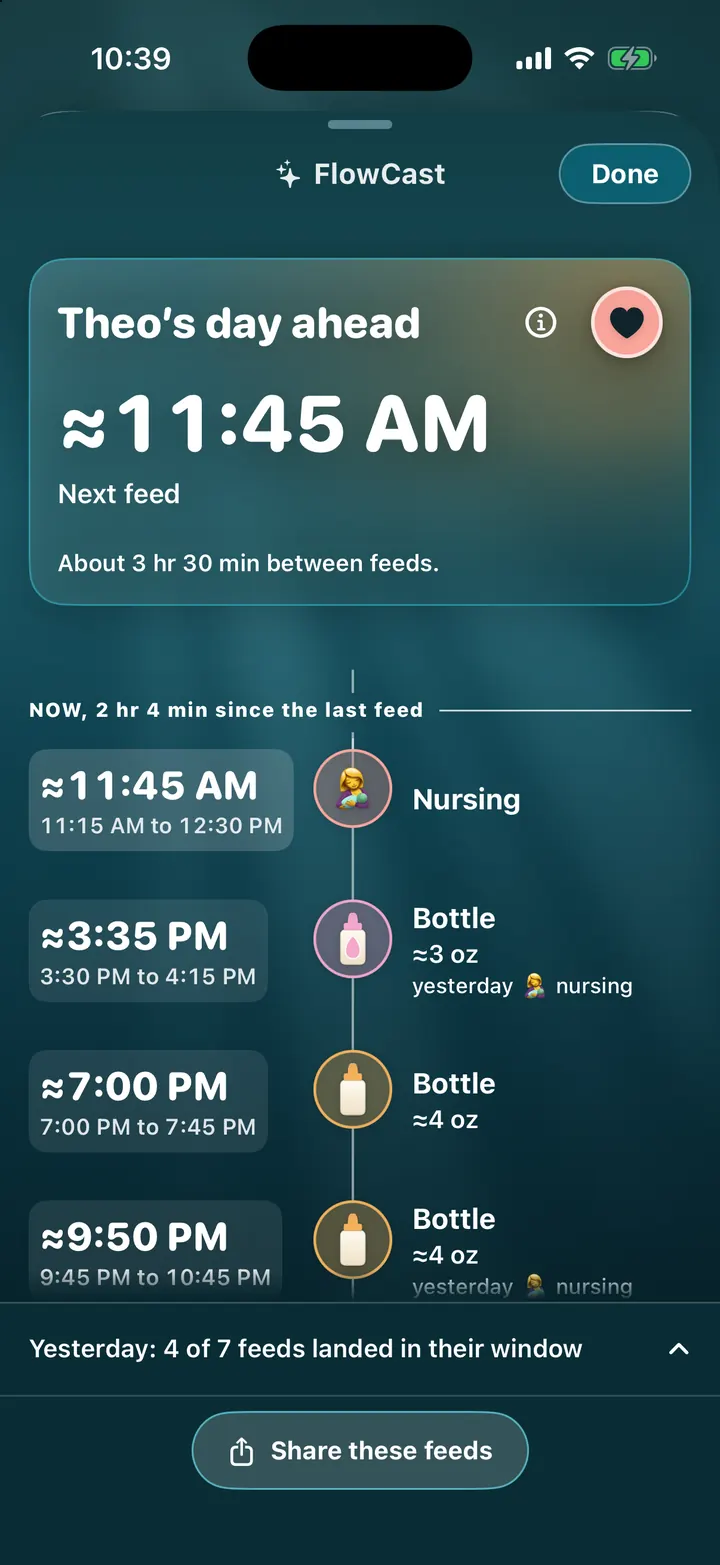
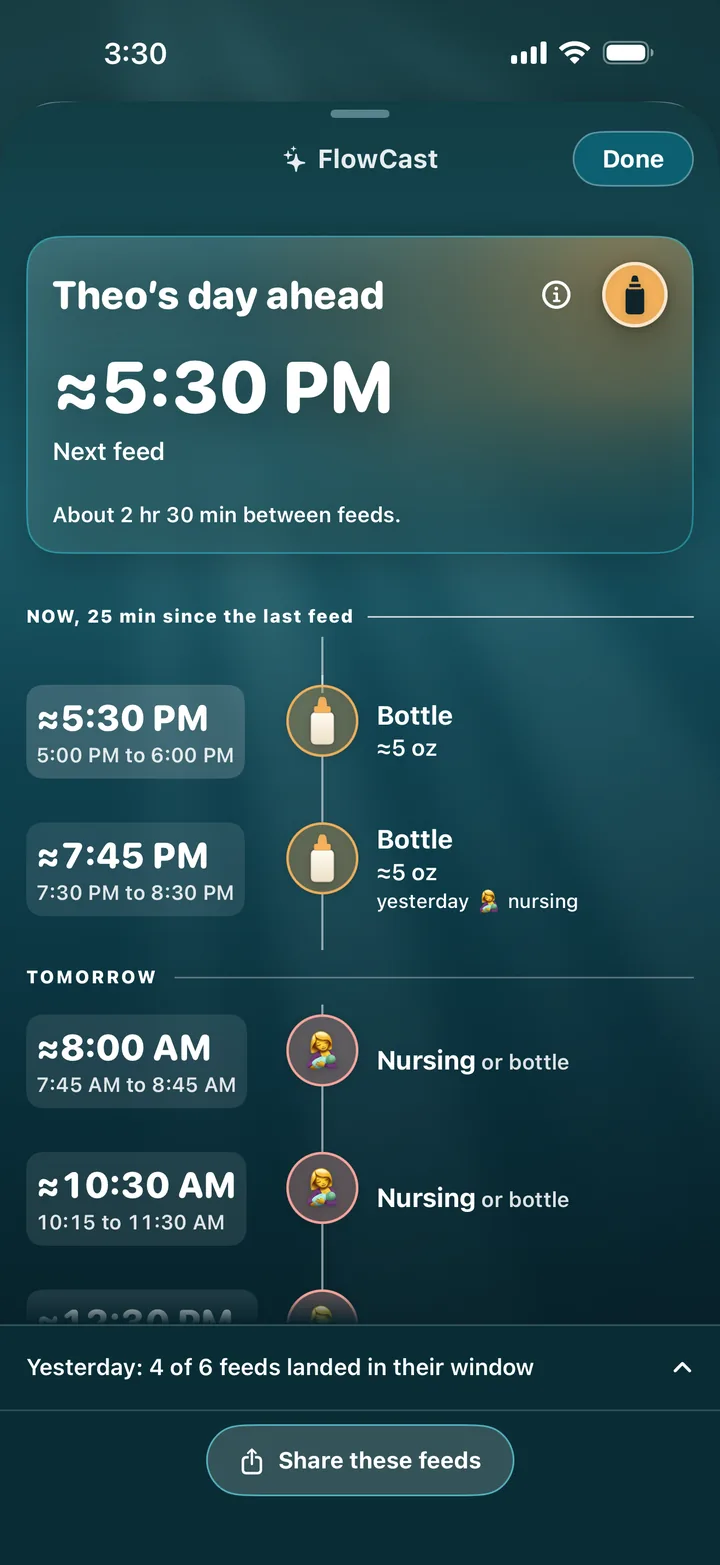
feat: FlowCast frame with a bottle as the next feed and the Family screen with the invite button on the homepage

diff --git a/index.html b/index.html
@@ -69,7 +69,7 @@
       "featureList": ["Breastfeeding, formula, pumping, water and solids tracking","Prepared-bottle countdown, including on the lock screen","FlowCast next-feed predictions and optional notifications","Smart meal planning and usual bottle sizes","WHO weight, height and head-circumference growth references","Allergen introduction and later reaction records","Medicine and vaccine log","Automatic vitamin D calculations from drops and formula labels","Formula brand and nutrition comparison","Caregiver sharing and private feeding and growth reports"],
       "screenshot": [
         { "@type": "ImageObject", "contentUrl": "https://tryfeedflow.app/screens/how/log-720.webp?v=8878171e", "caption": "The live bottle screen with its countdown ring, 1.5 oz taken and 2.5 oz left", "width": 720, "height": 1565 },
-        { "@type": "ImageObject", "contentUrl": "https://tryfeedflow.app/screens/how/flowcast-720.webp?v=f4d998f5", "caption": "FlowCast showing the next feed at about 11:45 AM and the feeds predicted later today", "width": 720, "height": 1565 },
+        { "@type": "ImageObject", "contentUrl": "https://tryfeedflow.app/screens/how/flowcast-720.webp?v=4ba62f67", "caption": "FlowCast showing the next feed, a bottle at about 5:30 PM, and the feeds predicted after it", "width": 720, "height": 1565 },
         { "@type": "ImageObject", "contentUrl": "https://tryfeedflow.app/screens/how/vitamin-d-900.webp?v=197182ee", "caption": "The real vitamin D card showing about 400 IU from drops today against the day's limit of 1,500 IU", "width": 900, "height": 1015 },
         { "@type": "ImageObject", "contentUrl": "https://tryfeedflow.app/screens/how/hero-report-720.webp?v=9f258066", "caption": "A real baby report showing weight and length at the 49th percentile", "width": 720, "height": 1565 },
         { "@type": "ImageObject", "contentUrl": "https://tryfeedflow.app/screens/how/report-detail-720.webp?v=d029c4a4", "caption": "A detailed report page with bottle sizing and WHO growth curves", "width": 720, "height": 1565 },
@@ -167,7 +167,7 @@
     <div class="hiw-beats">
       <article class="hiw-beat">
         <div class="hiw-copy"><h3>Learn the next feed</h3><p>FlowCast learns your baby’s rhythm and shows when the next feed is likely.</p></div>
-        <div class="hiw-device"><figure class="hiw-phone" data-hiw="flowcast"><img class="hiw-shot" src="/screens/how/flowcast-360.webp?v=2ed69034" srcset="/screens/how/flowcast-360.webp?v=2ed69034 360w, /screens/how/flowcast-720.webp?v=f4d998f5 720w" sizes="260px" width="360" height="783" loading="lazy" decoding="async" alt="The real FlowCast screen showing Theo's next feed at about 11:45 AM and the feeds predicted later today."></figure></div>
+        <div class="hiw-device"><figure class="hiw-phone" data-hiw="flowcast"><img class="hiw-shot" src="/screens/how/flowcast-360.webp?v=ddd023fe" srcset="/screens/how/flowcast-360.webp?v=ddd023fe 360w, /screens/how/flowcast-720.webp?v=4ba62f67 720w" sizes="260px" width="360" height="783" loading="lazy" decoding="async" alt="The real FlowCast screen showing Theo's next feed, a bottle of about 5 oz at about 5:30 PM, and the feeds predicted after it."></figure></div>
       </article>
       <article class="hiw-beat">
         <div class="hiw-copy"><h3>Bring it to the check-up</h3><p>Feeding and growth in one report you can share before the visit.</p></div>
@@ -183,7 +183,7 @@
       </article>
       <article class="hiw-beat">
         <div class="hiw-copy"><h3>Share the feeding</h3><p>Invite whoever helps out. Everyone sees the same day.</p></div>
-        <div class="hiw-device"><figure class="hiw-phone" data-hiw="family"><img class="hiw-shot" src="/screens/how/family-360.webp?v=bd085ffd" srcset="/screens/how/family-360.webp?v=bd085ffd 360w, /screens/how/family-720.webp?v=4c2d6ad0 720w" sizes="260px" width="360" height="783" loading="lazy" decoding="async" alt="The real Feed Flow activity feed showing feeds logged by You, Anna and Alex, each with the amount and time."></figure></div>
+        <div class="hiw-device"><figure class="hiw-phone" data-hiw="family"><img class="hiw-shot" src="/screens/how/family-360.webp?v=1ddba61b" srcset="/screens/how/family-360.webp?v=1ddba61b 360w, /screens/how/family-720.webp?v=4bcfcd32 720w" sizes="260px" width="360" height="783" loading="lazy" decoding="async" alt="The real Feed Flow Family screen: Theo shared with Alex and Anna, feeds logged by each this week, and the Invite someone else button."></figure></div>
       </article>
       <article class="hiw-beat">
         <div class="hiw-copy"><h3>Four themes</h3><p>Pick the look that suits your nights.</p></div>

diff --git a/no.html b/no.html
@@ -11,11 +11,11 @@ IMAGE SLOTS (Norwegian captures under /screens/no/how/ via IMAGE_MAP in the scri
   step 4, day meter 'before' frame: /screens/how/before-360.webp?v=b3e4d460
   step 3 and hero, bottle screen (amounts on frame): /screens/how/log-360.webp?v=4f488930
   step 4, Today after the feed (amounts on frame): /screens/how/finish-360.webp?v=d03b95c2
-  beat, FlowCast: /screens/how/flowcast-360.webp?v=2ed69034
+  beat, FlowCast: /screens/how/flowcast-360.webp?v=ddd023fe
   beat, report (scrolling): /screens/how/report-scroll-360.webp?v=fc2ca2af
   beat, growth: /screens/how/growth-360.webp?v=6b0abb78
   beat, health: /screens/how/health-360.webp?v=5579b3d8
-  beat, share: /screens/how/family-360.webp?v=bd085ffd
+  beat, share: /screens/how/family-360.webp?v=1ddba61b
   themes, Ocean: /screens/how/theme-ocean-360.webp?v=2282f5fd
   themes, Forest: /screens/how/theme-forest-360.webp?v=bb5c1a35
   themes, Lavender: /screens/how/theme-lavender-360.webp?v=badd6d64
@@ -149,8 +149,8 @@ AMOUNT CALLOUTS (in ml, read from the Norwegian captures; constants CALLOUT_LEFT
         },
         {
           "@type": "ImageObject",
-          "contentUrl": "https://tryfeedflow.app/screens/no/how/flowcast-720.webp?v=75cdbc4d",
-          "caption": "FlowCast med neste måltid ved omtrent 11:45 og måltidene som er forventet senere i dag",
+          "contentUrl": "https://tryfeedflow.app/screens/no/how/flowcast-720.webp?v=e9cdf71b",
+          "caption": "FlowCast med neste måltid, en flaske rundt 17:30, og måltidene som er forventet etterpå",
           "width": 720,
           "height": 1565
         },
@@ -342,7 +342,7 @@ AMOUNT CALLOUTS (in ml, read from the Norwegian captures; constants CALLOUT_LEFT
     <div class="hiw-beats">
       <article class="hiw-beat">
         <div class="hiw-copy"><h3>Se når neste måltid kommer</h3><p>FlowCast lærer babyens rytme og viser når neste måltid sannsynligvis kommer.</p></div>
-        <div class="hiw-device"><figure class="hiw-phone" data-hiw="flowcast"><img class="hiw-shot" src="/screens/no/how/flowcast-360.webp?v=22a15cff" srcset="/screens/no/how/flowcast-360.webp?v=22a15cff 360w, /screens/no/how/flowcast-720.webp?v=75cdbc4d 720w" sizes="260px" width="360" height="783" loading="lazy" decoding="async" alt="Den ekte FlowCast-skjermen med Theos neste måltid ved omtrent 11:45 og måltidene som er forventet senere i dag."></figure></div>
+        <div class="hiw-device"><figure class="hiw-phone" data-hiw="flowcast"><img class="hiw-shot" src="/screens/no/how/flowcast-360.webp?v=81b32b62" srcset="/screens/no/how/flowcast-360.webp?v=81b32b62 360w, /screens/no/how/flowcast-720.webp?v=e9cdf71b 720w" sizes="260px" width="360" height="783" loading="lazy" decoding="async" alt="Den ekte FlowCast-skjermen med Theos neste måltid, en flaske på omtrent 190 ml rundt 17:30, og måltidene som er forventet etterpå."></figure></div>
       </article>
       <article class="hiw-beat">
         <div class="hiw-copy"><h3>Ta den med til helsestasjonen</h3><p>Mating og vekst i én rapport du kan dele før timen.</p></div>
